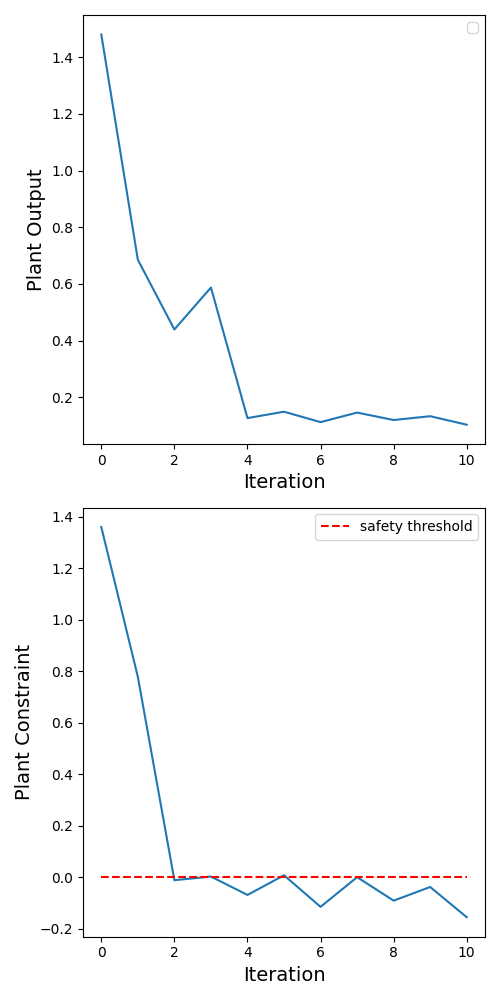
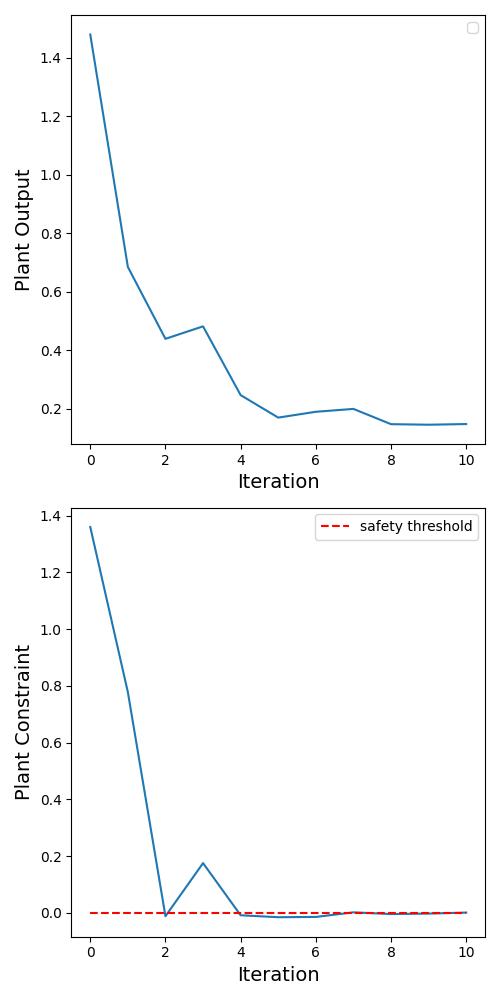
fixed Trust Region Update

diff --git a/BayesRTOjax.py b/BayesRTOjax.py
@@ -404,52 +404,111 @@ class BayesianOpt():
             - data                  : data stored during each step in Real-Time Optimization
         '''
         # Initialize Data Storage
-        keys                        = ['i','x_new','plant_output','TR_radius']
-        data_storage           = DataStorage(keys)
+        keys                        = ['i','x_new','plant_output','TR_radius','plant_temporary']
+        data_storage                = DataStorage(keys)
 
-        # Collect data at x_initial
-        plant_output            = []
-        for plant in self.plant_system:
-            plant_output.append(plant(x_initial)) 
+        # Collect data at x_initial to DataStorage
+        plant_output                = self.calculate_plant_outputs(x_initial)
+        data_dict                   = self.create_data_points(0,x_initial,plant_output,radius)
+        data_storage.add_data_points(data_dict)
         
-        data_storage.add_data_points({
-            'i'                 : 0,
-            'x_new'             : x_initial.tolist(),
-            'plant_output'      : plant_output,
-            'TR_radius'         : radius
-        })
-        
+        # create temporary plant output for comparison in Trust Region Update
+        data_storage.data['plant_temporary'].append(plant_output.tolist())
+
         # Real-Time Optimization
         for i in range(n_iter):
 
             # Bayesian Optimization
+            print(f"\ninitial, radius: {x_initial,radius}")
             d_new, obj              = self.minimize_acquisition(radius,x_initial,multi_start=multi_start,b=b)
             
             # Retrieve Data from plant system
-            x_new                   = x_initial + d_new  
-            plant_output            = []
-            for plant in self.plant_system:
-                plant_output.append(plant(x_new))  
-            
-            plant_output            = jnp.array(plant_output)
+            print(f"d_new, x_initial+d: {d_new,x_initial+d_new}")
+            plant_output            = self.calculate_plant_outputs(x_initial+d_new)
+
+            # Collect Data to DataStorage
+            data_dict               = self.create_data_points(i+1,x_initial+d_new,plant_output,radius)
+            data_storage.add_data_points(data_dict)
+
+            # Trust Region Update:
+            x_new, radius_new       = self.update_TR(x_initial,x_initial+d_new,radius,data_storage)
 
             # Add sample to Gaussian Process
-            self.add_sample(x_new,plant_output)
+            self.add_sample(x_initial+d_new,plant_output)
 
             # Preparation for next iter:
             x_initial               = x_new
-
-            # Collect Data
-            data_storage.add_data_points({
-                'i'                 : i+1,
-                'x_new'             : x_new.tolist(),
-                'plant_output'      : plant_output.tolist(),
-                'TR_radius'         : radius
-            })
+            radius                  = radius_new
         
         data                        = data_storage.get_data()
 
         return data
+    
+    def create_data_points(self,iter,x_new,plant_output,radius):
+        data_dict = {
+            'i'                     : iter,
+            'x_new'                 : x_new.tolist(),
+            'plant_output'          : plant_output.tolist(),
+            'TR_radius'             : radius
+        }
+
+        return data_dict
+    
+    def calculate_plant_outputs(self,x):
+
+        plant_output            = []
+        for plant in self.plant_system:
+            plant_output.append(plant(x)) 
+
+        return jnp.array(plant_output)
+    
+    def update_TR(self,x_initial,x_new,r,data_storage):
+        '''
+        Description:
+        Arguments:
+        Returns:
+            - x_new:
+            - r: 
+        '''
+        # Check plant constraints to update trust region
+        for i in range(self.n_fun-1):
+            plant_const_now = data_storage.data['plant_output'][-1][i+1]
+            print(plant_const_now)
+            
+            if plant_const_now < 0:
+                print("reduced bc violated plant_const")
+                return x_initial, r*0.8 # r_red
+            else:
+                pass
+
+        # Calculate rho and use to update trust region
+        plant_previous  = data_storage.data['plant_temporary'][0][0]
+        plant_now       = data_storage.data['plant_output'][-1][0]
+        GP_previous     = self.GP_inference_np_jit(x_initial)[0][0]
+        GP_now          = self.GP_inference_np_jit(x_new)[0][0]
+
+        rho             = (plant_now-plant_previous)/(GP_now-GP_previous)
+        print(f"plant now, previous: {plant_now,plant_previous}")
+        print(f"GP now, previous: {GP_now,GP_previous}")
+        if rho < 0.2:
+            print('reduced bc rho is too small')
+            return x_initial, r*0.8     # r_red
+        
+        elif plant_previous < plant_now:
+            print('reduced bc worse plant')
+            return x_initial, r*0.8
+        
+        elif rho >= 0.2 or rho < 0.8: 
+            print('constant bc rho is moderate')
+            data_storage.data['plant_temporary'][0][0] = plant_now
+            return x_new, r
+        
+        else: # rho >= 0.8
+            r = min(r*1.2,2) # r_inc, r_max
+            print('increased bc rho was big')
+            data_storage.data['plant_temporary'][0][0] = plant_now
+            return x_new, r
+        
     
     def add_sample(self,x_new,y_new):
         '''

diff --git a/test/test_BayesRTOjax.py b/test/test_BayesRTOjax.py
@@ -3,10 +3,11 @@ import os
 sys.path.insert(0, os.path.abspath(os.path.join(os.path.dirname(__file__), '..')))
 
 import jax.numpy as jnp
-from jax import grad
+from jax import grad, vmap, jit
 import pandas as pd
 import BayesRTOjax
 import Benoit_Problem
+import Rosenbrock_Problem
 
 
 # --- Preparation --- #
@@ -204,17 +205,21 @@ def test_RTOminimize_Benoit():
     multi_start=5
     b = 0.
 
-    data = GP_m.RTOminimize(n_iter=n_iter,x_initial=x_i,radius=r,multi_start=5,b=b)
+    data = GP_m.RTOminimize(n_iter=n_iter,x_initial=x_i,radius=r,multi_start=multi_start,b=b)
     
     # Data Processing
     processed_data = {
         'i': data['i'],
         'x_new_0': data['x_new'][:, 0],
         'x_new_1': data['x_new'][:, 1],
-        'plant_output_0': data['plant_output'][:, 0],
-        'plant_output_1': data['plant_output'][:, 1],
+        'plant_output': data['plant_output'][:, 0],
+        'plant_constraint': data['plant_output'][:, 1],
         'TR_radius': data['TR_radius']
     }
+
+    # print Data
+    df = pd.DataFrame(processed_data)
+    print("\n", df)
 
     # Plot Real-Time Optimization Step
     filenames = []
@@ -233,12 +238,32 @@ def test_RTOminimize_Benoit():
     # Plot plant output and its constraint
     figname = 'Plant_Output_Constraint_png'
     Benoit_Problem.plant_outputs_drawing(processed_data['i'],
-                                         processed_data['plant_output_0'],
-                                         processed_data['plant_output_1'],
+                                         processed_data['plant_output'],
+                                         processed_data['plant_constraint'],
                                          figname)
 
     
-def test_RTOminimize():
+def test_RTOminimize_Rosenbrock():
+    
+    # Initialization
+    plant_system = [Rosenbrock_Problem.Rosenbrock_f,
+                    Rosenbrock_Problem.con2contour_plot]
+    
+    GP_m = BayesRTOjax.BayesianOpt(plant_system)
+
+    # Data Sampling:
+    X = jnp.array([[-1.5,-0.6],
+                   [-1.8,-0.65],
+                   [-1.9,-0.5],
+                   [-1.7,-0.7],
+                   [-1.95,-0.8],
+                   [-1.5,-1]])
+    n_sample = X.shape[0]
+    n_fun = 2
+    Y = jnp.zeros((n_sample,n_fun))
+    for i in range(n_fun):
+        Y = Y.at[:,i].set(vmap(plant_system[i])(X))
+
     pass
         
 

diff --git a/test.py b/test.py
@@ -1,39 +1,5 @@
-#######################
-# --- TR function --- #
-#######################
-
-def Adjust_TR(self, Delta0, xk, xnew, GP_obj):
-    '''
-    Adjusts the TR depending on the rho ratio between xk and xnew
-    '''
-    Delta_max, eta0, eta1          = self.Delta_max, self.eta0, self.eta1
-    gamma_red, gamma_incr          = self.gamma_red, self.gamma_incr
-    obj_system                     = self.obj_system
-
-    # --- compute rho --- #
-    plant_i     = obj_system(np.array(xk).flatten())
-    plant_iplus = obj_system(np.array(xnew).flatten())
-    rho         = (plant_i - plant_iplus)/(GP_obj.GP_inference_np(np.array(xk).flatten())[0]-
-                                            GP_obj.GP_inference_np(np.array(xnew).flatten())[0] )
-
-    # --- Update TR --- #
-    if plant_iplus<plant_i:
-        if rho>=eta0:
-            if rho>=eta1:
-                Delta0 = min(Delta0*gamma_incr, Delta_max)
-            elif rho<eta1:
-                Delta0 = Delta0*gamma_red
-            # Note: xk = xnew this is done later in the code
-        if rho<eta0:
-            #print('rho<eta0 -- backtracking')
-            self.suboptimal_list.append(copy.deepcopy(xk))
-            xnew   = xk
-            Delta0 = Delta0*gamma_red
-    else:
-        self.suboptimal_list.append(copy.deepcopy(xk))
-        xnew   = xk
-        Delta0 = Delta0*gamma_red
-        #print('plant_iplus<plant_i -- backtracking')
-
-    return Delta0, xnew, xk
-
+import jax.numpy as jnp
+b = jnp.array([1.,3.])
+a = jnp.min(b)
+a = min(1.,3.)
+print(a)

diff --git a/Rosenbrock_Problem.py b/Rosenbrock_Problem.py
@@ -1,0 +1,7 @@
+def Rosenbrock_f(x):
+    z = (1.-x[0])**2 + 100*(x[1]-x[0]**2)**2
+
+    return z
+
+def con2contour_plot(x):
+    return x[0]**2 + 2*x[0] + 1  # = x
